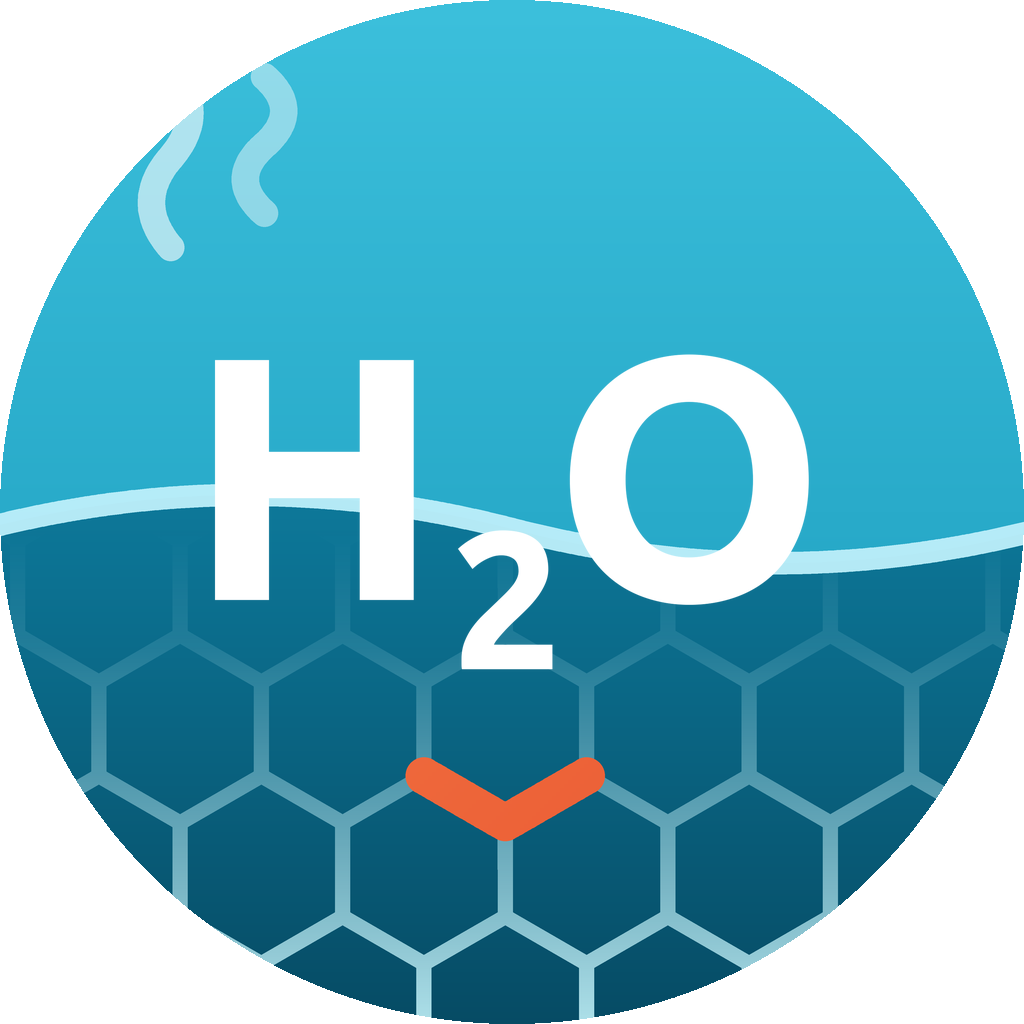
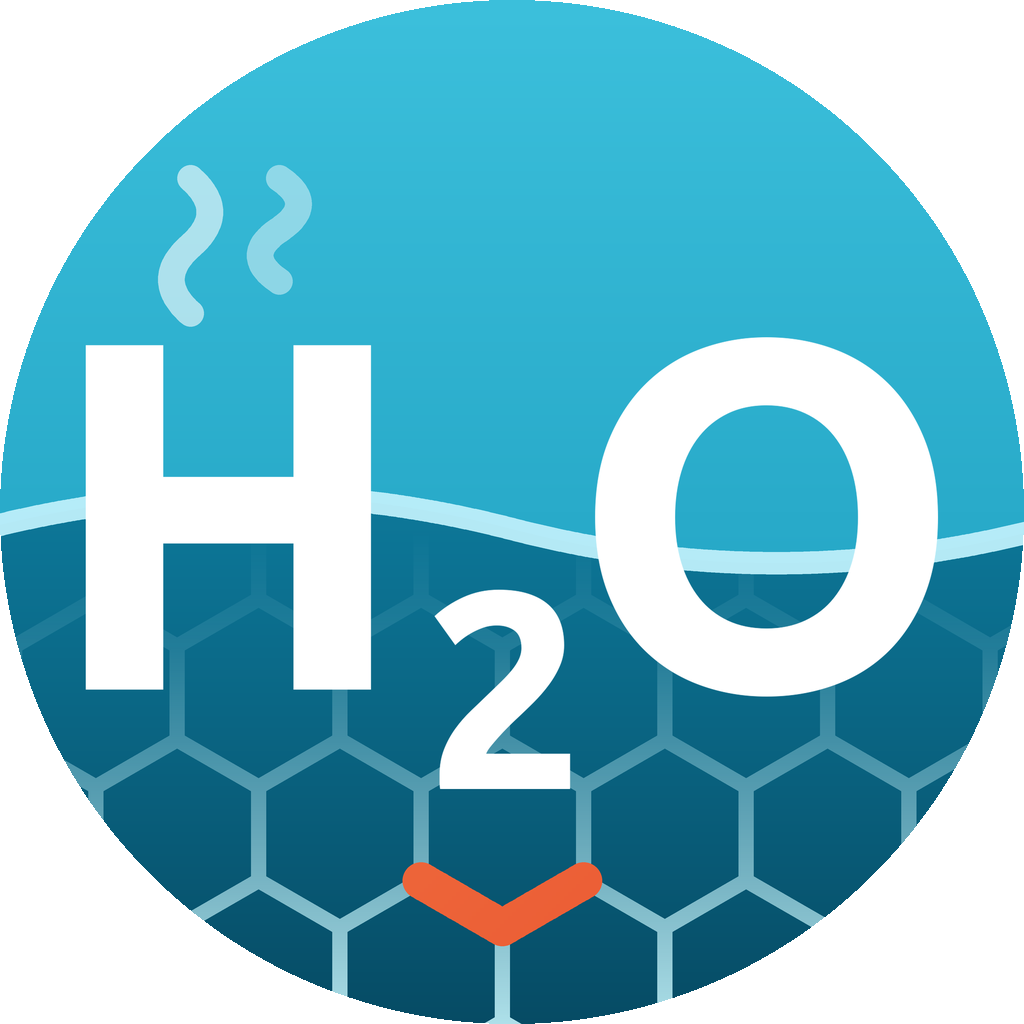
Rond Android-icoon: eigen ontwerp, H2O zo groot mogelijk binnen de cirkel, stoom boven de H, oranje V onder de 2

Changed region(s): [[0.0312, 0.3125, 1.0, 1.0], [0.125, 0.0625, 0.3125, 0.3125]]

diff --git a/Tools/Icoon/maak_icoon.py b/Tools/Icoon/maak_icoon.py
@@ -222,7 +222,12 @@ def oranje_v(midden):
     return vlak
 
 
-def achtergrond(met_stoom=True, twee=None, schaal=1.0):
+STOOM = [(20, 29, 21, 0.6), (31, 25, 16, 0.45)]   # stoompluimen: x, onderkant, hoogte, dekking (vierkant icoon)
+MARGE_ROND = 5.0              # rond icoon: ruimte tussen H2O en de cirkelrand (eenheden van 120)
+STOOM_ROND = 0.8              # rond icoon: pluimen iets korter, zodat H2O groter kan
+
+
+def achtergrond(met_stoom=True, twee=None, schaal=1.0, pluimen=None):
     """twee: plek van de 2 (uit twee_plek); dan schuift het raster zo dat er een zeshoek onder de 2 valt,
     en krijgt die zeshoek een oranje V. schaal: lettergrootte ten opzichte van het gewone icoon."""
     img = verloop(BOVEN, 0, 120).convert("RGBA")
@@ -239,8 +244,8 @@ def achtergrond(met_stoom=True, twee=None, schaal=1.0):
     if met_stoom:
         stoom = Image.new("RGBA", (S, S), (0, 0, 0, 0))
         ds = ImageDraw.Draw(stoom)
-        lijn_pad(ds, stoompluim(20, 29, 21), 3.2, (255, 255, 255, int(255 * 0.6)))
-        lijn_pad(ds, stoompluim(31, 25, 16), 3.2, (255, 255, 255, int(255 * 0.45)))
+        for (x, y, h, a) in (pluimen or STOOM):
+            lijn_pad(ds, stoompluim(x, y, h), 3.2 * min(1.0, schaal ** 0.5), (255, 255, 255, int(255 * a)))
         img = Image.alpha_composite(img, stoom)
     return img
 
@@ -255,6 +260,66 @@ def afgerond(img, rx=27):
     uit = img.copy()
     uit.putalpha(m)
     return uit
+
+
+def h_vak(letters):
+    """Linker-, rechter- en bovenrand van de H in een H2O-laag (eenheden)."""
+    a = letters.getchannel("A")
+    l, t, r_, b = a.getbbox()
+    x = l
+    while x < r_ and a.crop((x, t, x + 1, b)).getbbox():        # de H loopt door tot de eerste lege kolom
+        x += 1
+    hl, ht, hr, _ = a.crop((l, t, x, b)).getbbox()
+    return (l + hl) / K, (l + hr) / K, (t + ht) / K
+
+
+def stoom_boven_h(letters, schaal, lengte=1.0):
+    """De stoompluimen zoals in het vierkante icoon, maar meegeschaald en boven de H van deze letters."""
+    vl, vr, vt = h_vak(letters)                           # H in het vierkante icoon: x 7,0..42,4, boven 32,8
+    uit = []
+    for (x, y, h, a) in STOOM:
+        fx = (x - 7.0) / (42.4 - 7.0)
+        uit.append((vl + fx * (vr - vl), vt - (32.8 - y) * schaal, h * schaal * lengte, a))
+    return uit
+
+
+def past_in_cirkel(lagen, straal):
+    m = Image.new("L", (S, S), 255)
+    ImageDraw.Draw(m).ellipse([p(60 - straal, 60 - straal), p(60 + straal, 60 + straal)], fill=0)
+    return all(ImageChops.multiply(l.getchannel("A").point(lambda v: 255 if v > 40 else 0), m).getbbox() is None for l in lagen)
+
+
+def rond_icoon():
+    """Rond icoon: H2O zo breed mogelijk met MARGE_ROND tot de rand, stoom boven de H, oranje V onder de 2."""
+    def proef(breedte, midden_y):
+        letters = h2o(breedte, midden_y)
+        schaal = breedte / (120 - 2 * MARGE)
+        stoom = Image.new("RGBA", (S, S), (0, 0, 0, 0))
+        ds = ImageDraw.Draw(stoom)
+        for (x, y, h, a) in stoom_boven_h(letters, schaal, STOOM_ROND):
+            lijn_pad(ds, stoompluim(x, y, h), 3.2, (255, 255, 255, 255))
+        midden, _ = zeshoek_onder_twee(twee_plek(letters), schaal)
+        v = oranje_v(midden)
+        ok = past_in_cirkel([letters], 60 - MARGE_ROND) and past_in_cirkel([stoom], 60 - 4) and past_in_cirkel([v], 60 - 4)
+        return ok, letters, schaal
+
+    beste = None
+    for midden_y in range(60, 76, 2):                     # iets lager kan ruimte geven voor de stoom
+        laag, hoog, gevonden = 60.0, 106.0, None
+        for _ in range(7):                                # binair zoeken naar de grootste breedte die past
+            mid = (laag + hoog) / 2
+            ok, letters, schaal = proef(mid, midden_y)
+            if ok: laag, gevonden = mid, (mid, midden_y, letters, schaal)
+            else: hoog = mid
+        if gevonden and (beste is None or gevonden[0] > beste[0]): beste = gevonden
+    breedte, midden_y, letters, schaal = beste
+    bg = achtergrond(twee=twee_plek(letters), schaal=schaal, pluimen=stoom_boven_h(letters, schaal, STOOM_ROND))
+    rond = klein(Image.alpha_composite(bg, letters))
+    m = Image.new("L", (MAAT, MAAT), 0)
+    ImageDraw.Draw(m).ellipse([0, 0, MAAT - 1, MAAT - 1], fill=255)
+    rond.putalpha(m)
+    print(f"rond icoon: H2O {breedte:.0f} van 120 breed, midden op {midden_y}")
+    return rond
 
 
 def main():
@@ -273,11 +338,8 @@ def main():
     bg_a = achtergrond(twee=twee_plek(letters_a), schaal=120 * 0.58 / (120 - 2 * MARGE))
     klein(bg_a).convert("RGB").save(os.path.join(UIT_ASSETS, "android_achtergrond.png"))
     klein(letters_a).save(os.path.join(UIT_ASSETS, "android_voorgrond.png"))
-    # Android rond icoon (oudere toestellen): de adaptieve lagen samen, rond uitgesneden
-    rond1024 = Image.alpha_composite(klein(bg_a), klein(letters_a))
-    mr = Image.new("L", (MAAT, MAAT), 0)
-    ImageDraw.Draw(mr).ellipse([0, 0, MAAT - 1, MAAT - 1], fill=255)
-    rond1024.putalpha(mr)
+    # Android rond icoon (oudere toestellen): een eigen ontwerp, zo groot mogelijk binnen de cirkel
+    rond1024 = rond_icoon()
     rond1024.save(os.path.join(UIT_ASSETS, "android_rond.png"))
 
     # voorbeeld: afgerond groot + kleine maten, en de Android-cirkel
@@ -287,11 +349,7 @@ def main():
     for m in (180, 120, 80, 58):
         vb.alpha_composite(afgerond(icoon.convert("RGBA").resize((m, m), Image.LANCZOS)), (x, 40))
         x += m + 20
-    rond = Image.alpha_composite(klein(bg_a), klein(letters_a)).resize((300, 300), Image.LANCZOS)
-    m = Image.new("L", (300, 300), 0)
-    ImageDraw.Draw(m).ellipse([0, 0, 299, 299], fill=255)
-    rond.putalpha(m)
-    vb.alpha_composite(rond, (1064, 300))
+    vb.alpha_composite(rond1024.resize((300, 300), Image.LANCZOS), (1064, 300))
     vb.save(os.path.join(UIT_DOCS, "voorbeeld.png"))
     print("klaar")
 
